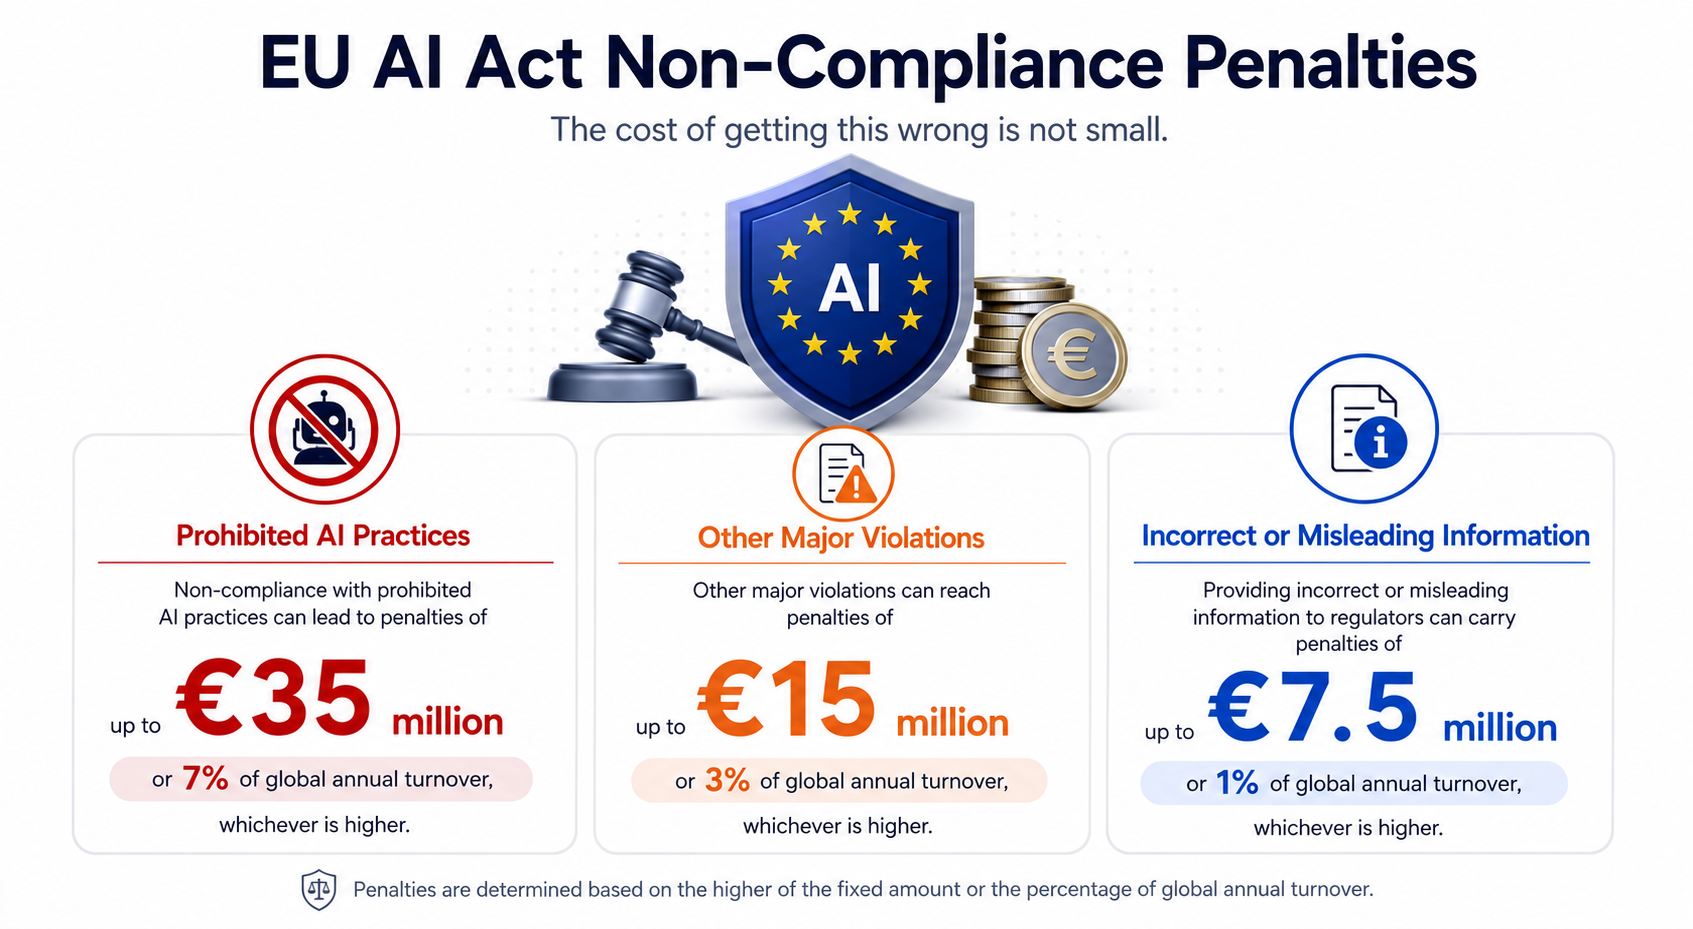
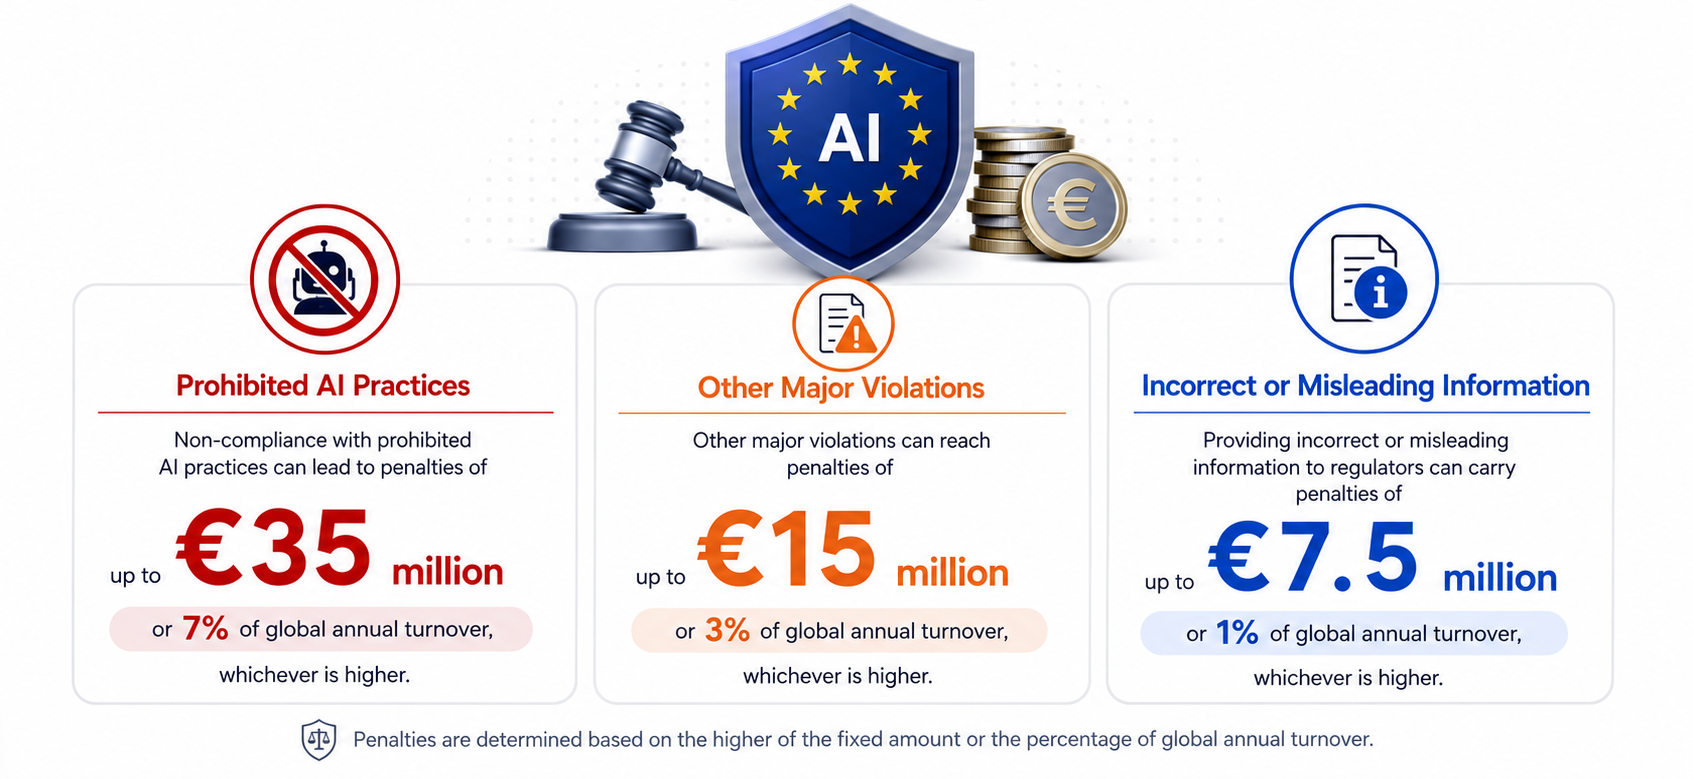
Crop penalty image to remove heading and subheading, update height in index.html

Changed region(s): [[0.1536, 0.0, 0.8907, 0.8935], [0.1843, 0.2465, 0.9522, 0.9859], [0.0614, 0.2465, 0.3379, 0.8935]]

diff --git a/index.html b/index.html
@@ -507,7 +507,7 @@
             alt="Infographic showing EU AI Act non-compliance penalties: up to €35 million or 7% global turnover for prohibited practices, up to €15 million or 3% for other major violations, and up to €7.5 million or 1% for incorrect/misleading information"
             class="block h-auto w-full mx-auto rounded-[12px]"
             width="1693"
-            height="929"
+            height="779"
             loading="lazy"
           />
         </div>
